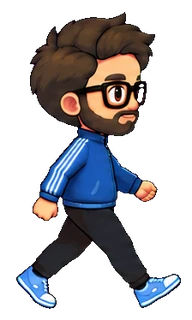
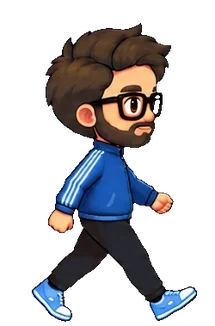
Add 5 mascot activities, camera flash; ground feet, drop shadow
Extend the frame mascot with five activities alongside walk + wave: sleep,
stretch, guitar, photo, design. Every action is head/height-matched to walk on
one shared canvas so the character never resizes between them; the walk auto-
turns and mirrors, activities play in place facing front (or side for sleep).

- Frames keyed, trimmed tight so feet sit at the bottom edge (offset 0).
- Deliberate in-frame extras kept: zZ on sleep, music notes on guitar.
- Camera flash bursts on the photo shutter frame (code-driven).
- Walk 8fps; activities slower (sleep 4, most 5, stretch/design 3fps).
- Stretch repeats ~3-4x before walking on.
- Shadow removed. Activity frames lazy-load on idle to protect initial load.

Changed region(s): [[0.0625, 0.0312, 0.9375, 1.0], [0.5625, 0.8125, 0.5938, 0.8438]]

diff --git a/js/main.js b/js/main.js
@@ -506,31 +506,54 @@ if (timeEl) {
   const reduce = window.matchMedia("(prefers-reduced-motion: reduce)").matches;
 
   // Frame-based mascot. Each action = a group of <img> frames + timing.
-  // Extensible: add a group in the HTML + an entry here to add sit/sleep/etc.
-  const groups = {
-    walk: document.getElementById("mc-walk"),
-    wave: document.getElementById("mc-wave"),
-  };
-  const imgs = {};
-  for (const k in groups) imgs[k] = groups[k] ? [...groups[k].querySelectorAll("img")] : [];
+  // Stationary actions lazy-load (data-src) and play in place; walk moves + mirrors.
+  const NAMES = ["walk", "wave", "sleep", "stretch", "guitar", "photo", "design"];
+  const groups = {}, imgs = {};
+  NAMES.forEach((n) => {
+    groups[n] = document.getElementById("mc-" + n);
+    imgs[n] = groups[n] ? [...groups[n].querySelectorAll("img")] : [];
+  });
   const A = {
-    walk: { fps: 8,  loop: true,  moves: true  },
-    wave: { fps: 6,  loop: false, moves: false, hold: 1200 },
+    walk:    { fps: 8, loop: true,  moves: true },   // walk stays lively
+    wave:    { fps: 5, loop: false, hold: 1300 },     // activities slower
+    sleep:   { fps: 4, loop: false, hold: 3200 },
+    stretch: { fps: 3, loop: true,  dur: 7000 },      // really slow, repeats ~3-4x
+    guitar:  { fps: 5, loop: true,  dur: 4200 },
+    photo:   { fps: 5, loop: false, hold: 1100 },
+    design:  { fps: 3, loop: true,  dur: 5200 },      // really slow
   };
+  const flashEl = mascot.querySelector(".mc-flash");
+  function fireFlash() {
+    if (!flashEl) return;
+    flashEl.classList.remove("fire"); void flashEl.offsetWidth; flashEl.classList.add("fire");
+  }
+  const ACTIVITIES = ["wave", "sleep", "stretch", "guitar", "photo", "design"];
 
   let action = "walk", f = 0, x = 40, dir = 1;
-  let animT = 0, moveT = 0, holdT = 0, nextWave = 0;
+  let animT = 0, moveT = 0, holdT = 0, stateEnd = 0;
   const pxPerSec = 48;
-  const W = () => mascot.offsetWidth || 84;
+  const W = () => mascot.offsetWidth || 86;
   const maxX = () => window.innerWidth - W() - 8;
+  const rand = (a, b) => a + Math.random() * (b - a);
 
+  function ensureLoaded(name) {
+    imgs[name].forEach((im) => { if (im.dataset.src) { im.src = im.dataset.src; im.removeAttribute("data-src"); } });
+  }
   function show(name) { for (const k in groups) if (groups[k]) groups[k].hidden = (k !== name); }
   function setFrame(name, i) { imgs[name].forEach((im, j) => im.classList.toggle("on", j === i)); }
   function apply() { mascot.style.transform = `translateX(${x}px) scaleX(${dir})`; }
-  function start(name, now) {
-    action = name; f = 0; holdT = 0; show(name); setFrame(name, 0);
-    if (name === "wave") dir = 1;                         // wave art faces the viewer, never mirrored
-    animT = moveT = now || performance.now(); apply();
+
+  function startWalk(now) {
+    action = "walk"; f = 0; show("walk"); setFrame("walk", 0);
+    stateEnd = now + rand(2800, 6200); animT = moveT = now; apply();
+  }
+  function startActivity(now) {
+    const name = ACTIVITIES[(Math.random() * ACTIVITIES.length) | 0];
+    ensureLoaded(name);
+    action = name; f = 0; holdT = 0; dir = 1;             // activities drawn front/side, never mirrored
+    show(name); setFrame(name, 0);
+    if (A[name].loop) stateEnd = now + A[name].dur;
+    animT = now; apply();
   }
 
   function loop(now) {
@@ -538,6 +561,7 @@ if (timeEl) {
     if (now - animT >= 1000 / a.fps) {
       if (a.loop) { f = (f + 1) % imgs[action].length; setFrame(action, f); }
       else if (f < imgs[action].length - 1) { f++; setFrame(action, f); if (f === imgs[action].length - 1) holdT = now; }
+      if (action === "photo" && f === 3) fireFlash();   // camera flash on the shutter frame
       animT = now;
     }
     if (a.moves) {
@@ -546,15 +570,23 @@ if (timeEl) {
       if (x >= maxX()) { x = maxX(); dir = -1; }
       else if (x <= 8) { x = 8; dir = 1; }
       apply();
-      if (now >= nextWave) start("wave", now);
+      if (now >= stateEnd) startActivity(now);
+    } else if (a.loop) {
+      if (now >= stateEnd) startWalk(now);
     } else if (holdT && now - holdT >= a.hold) {
-      nextWave = now + 9000 + Math.random() * 5000;
-      start("walk", now);
+      startWalk(now);
     }
     moveT = now;
     requestAnimationFrame(loop);
   }
 
   if (reduce) { show("walk"); setFrame("walk", 0); apply(); }   // static, no motion
-  else { nextWave = performance.now() + 9000; start("walk"); requestAnimationFrame(loop); }
+  else {
+    startWalk(performance.now());
+    requestAnimationFrame(loop);
+    // preload activity frames during idle so they play instantly, without blocking initial load
+    const preload = () => ACTIVITIES.forEach(ensureLoaded);
+    if ("requestIdleCallback" in window) requestIdleCallback(preload, { timeout: 4000 });
+    else setTimeout(preload, 2500);
+  }
 })();

diff --git a/index.html b/index.html
@@ -333,11 +333,10 @@
     </section>
   </main>
 
-  <!-- Corner mascot: autonomous "kid-me" that wanders the bottom-left. Homepage only, silent, desktop only. -->
-  <!-- Corner mascot: autonomous "kid-me" that walks the bottom edge and waves. Homepage only, silent. -->
+  <!-- Corner mascot: autonomous "kid-me" that walks, waves and does activities. Homepage only, silent. -->
   <div id="mascot-stage" aria-hidden="true">
     <div id="mascot" data-action="walk">
-      <div class="mc-shadow"></div>
+      <div class="mc-flash"></div>
       <div class="mc-frames" id="mc-walk">
         <img src="assets/mascot/walk/walk_0.webp" alt="" class="on">
         <img src="assets/mascot/walk/walk_1.webp" alt="">
@@ -357,6 +356,46 @@
         <img src="assets/mascot/wave/wave_1.webp" alt="">
         <img src="assets/mascot/wave/wave_2.webp" alt="">
         <img src="assets/mascot/wave/wave_3.webp" alt="">
+      </div>
+      <div class="mc-frames" id="mc-sleep" hidden>
+        <img data-src="assets/mascot/sleep/sleep_0.webp" alt="" class="on">
+        <img data-src="assets/mascot/sleep/sleep_1.webp" alt="">
+        <img data-src="assets/mascot/sleep/sleep_2.webp" alt="">
+        <img data-src="assets/mascot/sleep/sleep_3.webp" alt="">
+        <img data-src="assets/mascot/sleep/sleep_4.webp" alt="">
+        <img data-src="assets/mascot/sleep/sleep_5.webp" alt="">
+      </div>
+      <div class="mc-frames" id="mc-stretch" hidden>
+        <img data-src="assets/mascot/stretch/stretch_0.webp" alt="" class="on">
+        <img data-src="assets/mascot/stretch/stretch_1.webp" alt="">
+        <img data-src="assets/mascot/stretch/stretch_2.webp" alt="">
+        <img data-src="assets/mascot/stretch/stretch_3.webp" alt="">
+        <img data-src="assets/mascot/stretch/stretch_4.webp" alt="">
+        <img data-src="assets/mascot/stretch/stretch_5.webp" alt="">
+      </div>
+      <div class="mc-frames" id="mc-guitar" hidden>
+        <img data-src="assets/mascot/guitar/guitar_0.webp" alt="" class="on">
+        <img data-src="assets/mascot/guitar/guitar_1.webp" alt="">
+        <img data-src="assets/mascot/guitar/guitar_2.webp" alt="">
+        <img data-src="assets/mascot/guitar/guitar_3.webp" alt="">
+        <img data-src="assets/mascot/guitar/guitar_4.webp" alt="">
+        <img data-src="assets/mascot/guitar/guitar_5.webp" alt="">
+      </div>
+      <div class="mc-frames" id="mc-photo" hidden>
+        <img data-src="assets/mascot/photo/photo_0.webp" alt="" class="on">
+        <img data-src="assets/mascot/photo/photo_1.webp" alt="">
+        <img data-src="assets/mascot/photo/photo_2.webp" alt="">
+        <img data-src="assets/mascot/photo/photo_3.webp" alt="">
+        <img data-src="assets/mascot/photo/photo_4.webp" alt="">
+        <img data-src="assets/mascot/photo/photo_5.webp" alt="">
+      </div>
+      <div class="mc-frames" id="mc-design" hidden>
+        <img data-src="assets/mascot/design/design_0.webp" alt="" class="on">
+        <img data-src="assets/mascot/design/design_1.webp" alt="">
+        <img data-src="assets/mascot/design/design_2.webp" alt="">
+        <img data-src="assets/mascot/design/design_3.webp" alt="">
+        <img data-src="assets/mascot/design/design_4.webp" alt="">
+        <img data-src="assets/mascot/design/design_5.webp" alt="">
       </div>
     </div>
   </div>

diff --git a/css/style.css b/css/style.css
@@ -797,8 +797,8 @@ a.ai-card:hover .ai-card__link { transform: translateX(6px); }
 #mascot-stage.faded { opacity: 0; }   /* fade out over the dark contact section */
 
 #mascot {
-  position: absolute; bottom: 30px; left: 0;
-  width: 80px; height: 133px;               /* frame aspect 192x320 = 0.6 */
+  position: absolute; bottom: 0; left: 0;
+  width: 80px; height: 121px;               /* shared frame 215x326 (0.66), feet at edge */
   transform: translateX(40px) scaleX(1);
   transform-origin: bottom center; will-change: transform;
 }
@@ -810,16 +810,25 @@ a.ai-card:hover .ai-card__link { transform: translateX(6px); }
   opacity: 0; image-rendering: auto;
 }
 #mascot .mc-frames img.on { opacity: 1; }
-#mascot .mc-shadow {
-  position: absolute; bottom: -2px; left: 50%; transform: translateX(-50%);
-  width: 50px; height: 10px; border-radius: 50%;
-  background: rgba(0,0,0,0.15); filter: blur(2px);
+
+/* camera flash — a quick white burst on the shutter frame */
+#mascot .mc-flash {
+  position: absolute; left: 50%; top: 46%; width: 78%; aspect-ratio: 1; z-index: 5;
+  transform: translate(-50%, -50%) scale(0.4);
+  border-radius: 50%; opacity: 0; pointer-events: none;
+  background: radial-gradient(circle, rgba(255,255,255,0.98) 0%, rgba(255,255,255,0.5) 35%, rgba(255,255,255,0) 72%);
 }
+#mascot .mc-flash.fire { animation: mcFlash 0.32s ease-out; }
+@keyframes mcFlash {
+  0% { opacity: 0; transform: translate(-50%,-50%) scale(0.3); }
+  25% { opacity: 1; transform: translate(-50%,-50%) scale(1); }
+  100% { opacity: 0; transform: translate(-50%,-50%) scale(1.2); }
+}
+@media (prefers-reduced-motion: reduce) { #mascot .mc-flash { display: none; } }
 
 /* mobile: smaller, still shown */
 @media (max-width: 768px) {
-  #mascot { width: 60px; height: 100px; bottom: 20px; }
-  #mascot .mc-shadow { width: 36px; }
+  #mascot { width: 60px; height: 91px; bottom: 0; }
 }
 
 /* Back-to-top button (case study pages) */
